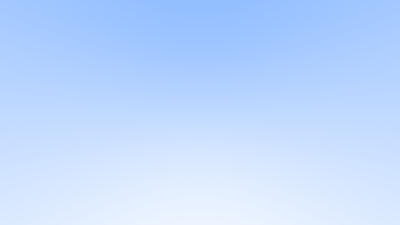
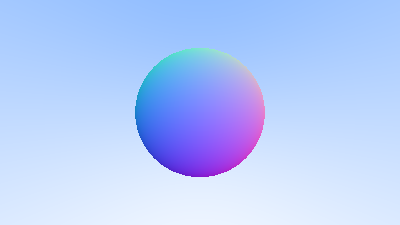
rendered sphere

Changed region(s): [[0.33, 0.1867, 0.66, 0.8089]]

diff --git a/lib/src/ray.dart b/lib/src/ray.dart
@@ -1,6 +1,7 @@
 library ray_tracing_engine;
 
 import 'package:ray_tracing_engine/src/vec3.dart';
+import 'dart:math';
 
 class ray{
   vec3 origin = new vec3(0,0,0);
@@ -9,7 +10,19 @@ class ray{
     this.origin=origin;
     this.direction=direction;
   }
-  at(vec3 t){
-    return this.origin+(this.direction*t);
+  at(double t){
+    return this.origin+(this.direction.mult(t));
+  }
+  static double hit_sphere(vec3 ce, double rad,ray r_){
+    vec3 oc=r_.origin - ce;
+    double a =  r_.direction.length_squared;
+    double half_b = vec3.dot(oc,r_.direction);
+    double c = oc.length_squared-rad*rad;
+    double disc = half_b*half_b-a*c;
+    if(disc<0){
+      return -1.0;
+    }else{
+      return (-half_b - sqrt(disc) ) / a;
+    }
   }
 }

diff --git a/lib/ray_tracing_engine.dart b/lib/ray_tracing_engine.dart
@@ -6,9 +6,15 @@ import 'dart:io';
 import 'package:image/image.dart';
 
 vec3 ray_color(ray r){
+  double t = ray.hit_sphere(new vec3(0.0,0.0,-1.0),0.5,r);
+
+  if(t>0.0){
+    vec3 N = (r.at(t)-new vec3(0.0,0.0,-1.0)).normalize();
+    return new vec3(N.x+1,N.y+1,N.z+1).mult(0.5);
+  }
   vec3 rDir = r.direction;
   vec3 unit_dir=rDir.normalize();
-  double t = 0.5*(unit_dir.y+1.0);
+  t = 0.5*(unit_dir.y+1.0);
   vec3 cA=new vec3(1.0-t,1.0-t,1.0-t);
   vec3 cB=new vec3(0.5*t,0.7*t,1.0*t);
   return cA+cB;

diff --git a/lib/src/vec3.dart b/lib/src/vec3.dart
@@ -47,4 +47,7 @@ class vec3{
     this.y/=l;
     this.z/=l;
   }
+  static double dot(vec3 a,vec3 b){
+    return a.x*b.x+a.y*b.y+a.z*b.z;
+  }
 }
